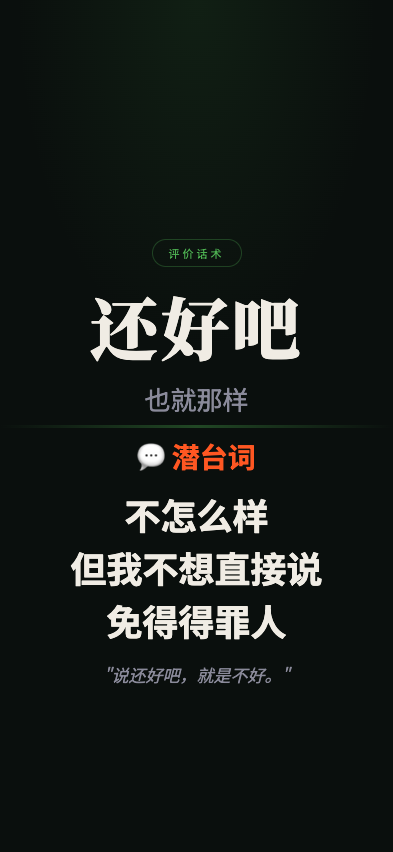
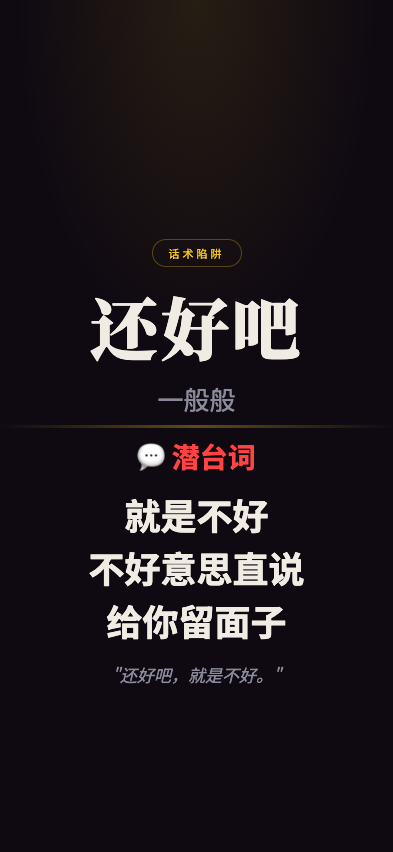
feat: 职场生存法则 screenshot - haihaoba

Changed region(s): [[0.1832, 0.5798, 0.8244, 0.8239], [0.1832, 0.4577, 0.8244, 0.5493], [0.4275, 0.2746, 0.5802, 0.3052]]

diff --git a/wuliao-tools/tools/biz-speak/scenes/haihaoba.html b/wuliao-tools/tools/biz-speak/scenes/haihaoba.html
@@ -7,11 +7,11 @@
 <link href="https://fonts.googleapis.com/css2?family=Noto+Serif+SC:wght@400;700;900&family=Noto+Sans+SC:wght@300;400;700&display=swap" rel="stylesheet">
 <style>
   :root {
-    --bg: #0a0f0d;
+    --bg: #0f0a12;
     --text: #f0ece4;
     --text-dim: #8a8a9a;
-    --gold: #4caf50;
-    --red: #ff5722;
+    --gold: #f5c518;
+    --red: #ff4444;
   }
   * { margin:0; padding:0; box-sizing:border-box; }
   html, body { width:100%; height:100%; overflow:hidden; }
@@ -24,11 +24,11 @@
   }
   body::before {
     content:''; position:absolute; top:0; left:0; right:0; height:45%;
-    background:radial-gradient(ellipse at 50% 0%, rgba(76,175,80,0.1) 0%, transparent 65%);
+    background:radial-gradient(ellipse at 50% 0%, rgba(245,197,24,0.1) 0%, transparent 65%);
     pointer-events:none; z-index:0;
   }
   .top { flex:1; display:flex; flex-direction:column; align-items:center; justify-content:flex-end; padding:4px 28px 8px; position:relative; z-index:1; }
-  .tag { font-size:11px; letter-spacing:3px; color:var(--gold); border:1px solid rgba(76,175,80,0.3); padding:5px 16px; border-radius:50px; margin-bottom:20px; }
+  .tag { font-size:11px; letter-spacing:3px; color:var(--gold); border:1px solid rgba(245,197,24,0.3); padding:5px 16px; border-radius:50px; margin-bottom:20px; }
   .main-title { font-family:'Noto Serif SC'; font-size:68px; font-weight:900; text-align:center; line-height:1.15; letter-spacing:3px; min-width:0; overflow-wrap:break-word; max-width:92%; }
   .sub-title { font-size:26px; color:var(--text-dim); text-align:center; margin-top:14px; }
   .divider { width:100%; height:3px; background:linear-gradient(90deg,transparent,var(--gold),transparent); opacity:0.35; flex-shrink:0; position:relative; z-index:1; }
@@ -41,19 +41,19 @@
 </head>
 <body>
   <div class="top">
-    <div class="tag">评价话术</div>
+    <div class="tag">话术陷阱</div>
     <div class="main-title">还好吧</div>
-    <div class="sub-title">也就那样</div>
+    <div class="sub-title">一般般</div>
   </div>
   <div class="divider"></div>
   <div class="bottom">
     <div class="truth-label">💬 潜台词</div>
     <div class="truth-lines">
-      <div class="truth-line">不怎么样</div>
-      <div class="truth-line">但我不想直接说</div>
-      <div class="truth-line">免得得罪人</div>
+      <div class="truth-line">就是不好</div>
+      <div class="truth-line">不好意思直说</div>
+      <div class="truth-line">给你留面子</div>
     </div>
-    <div class="quote">"说还好吧，就是不好。"</div>
+    <div class="quote">"还好吧，就是不好。"</div>
   </div>
 </body>
 </html>
